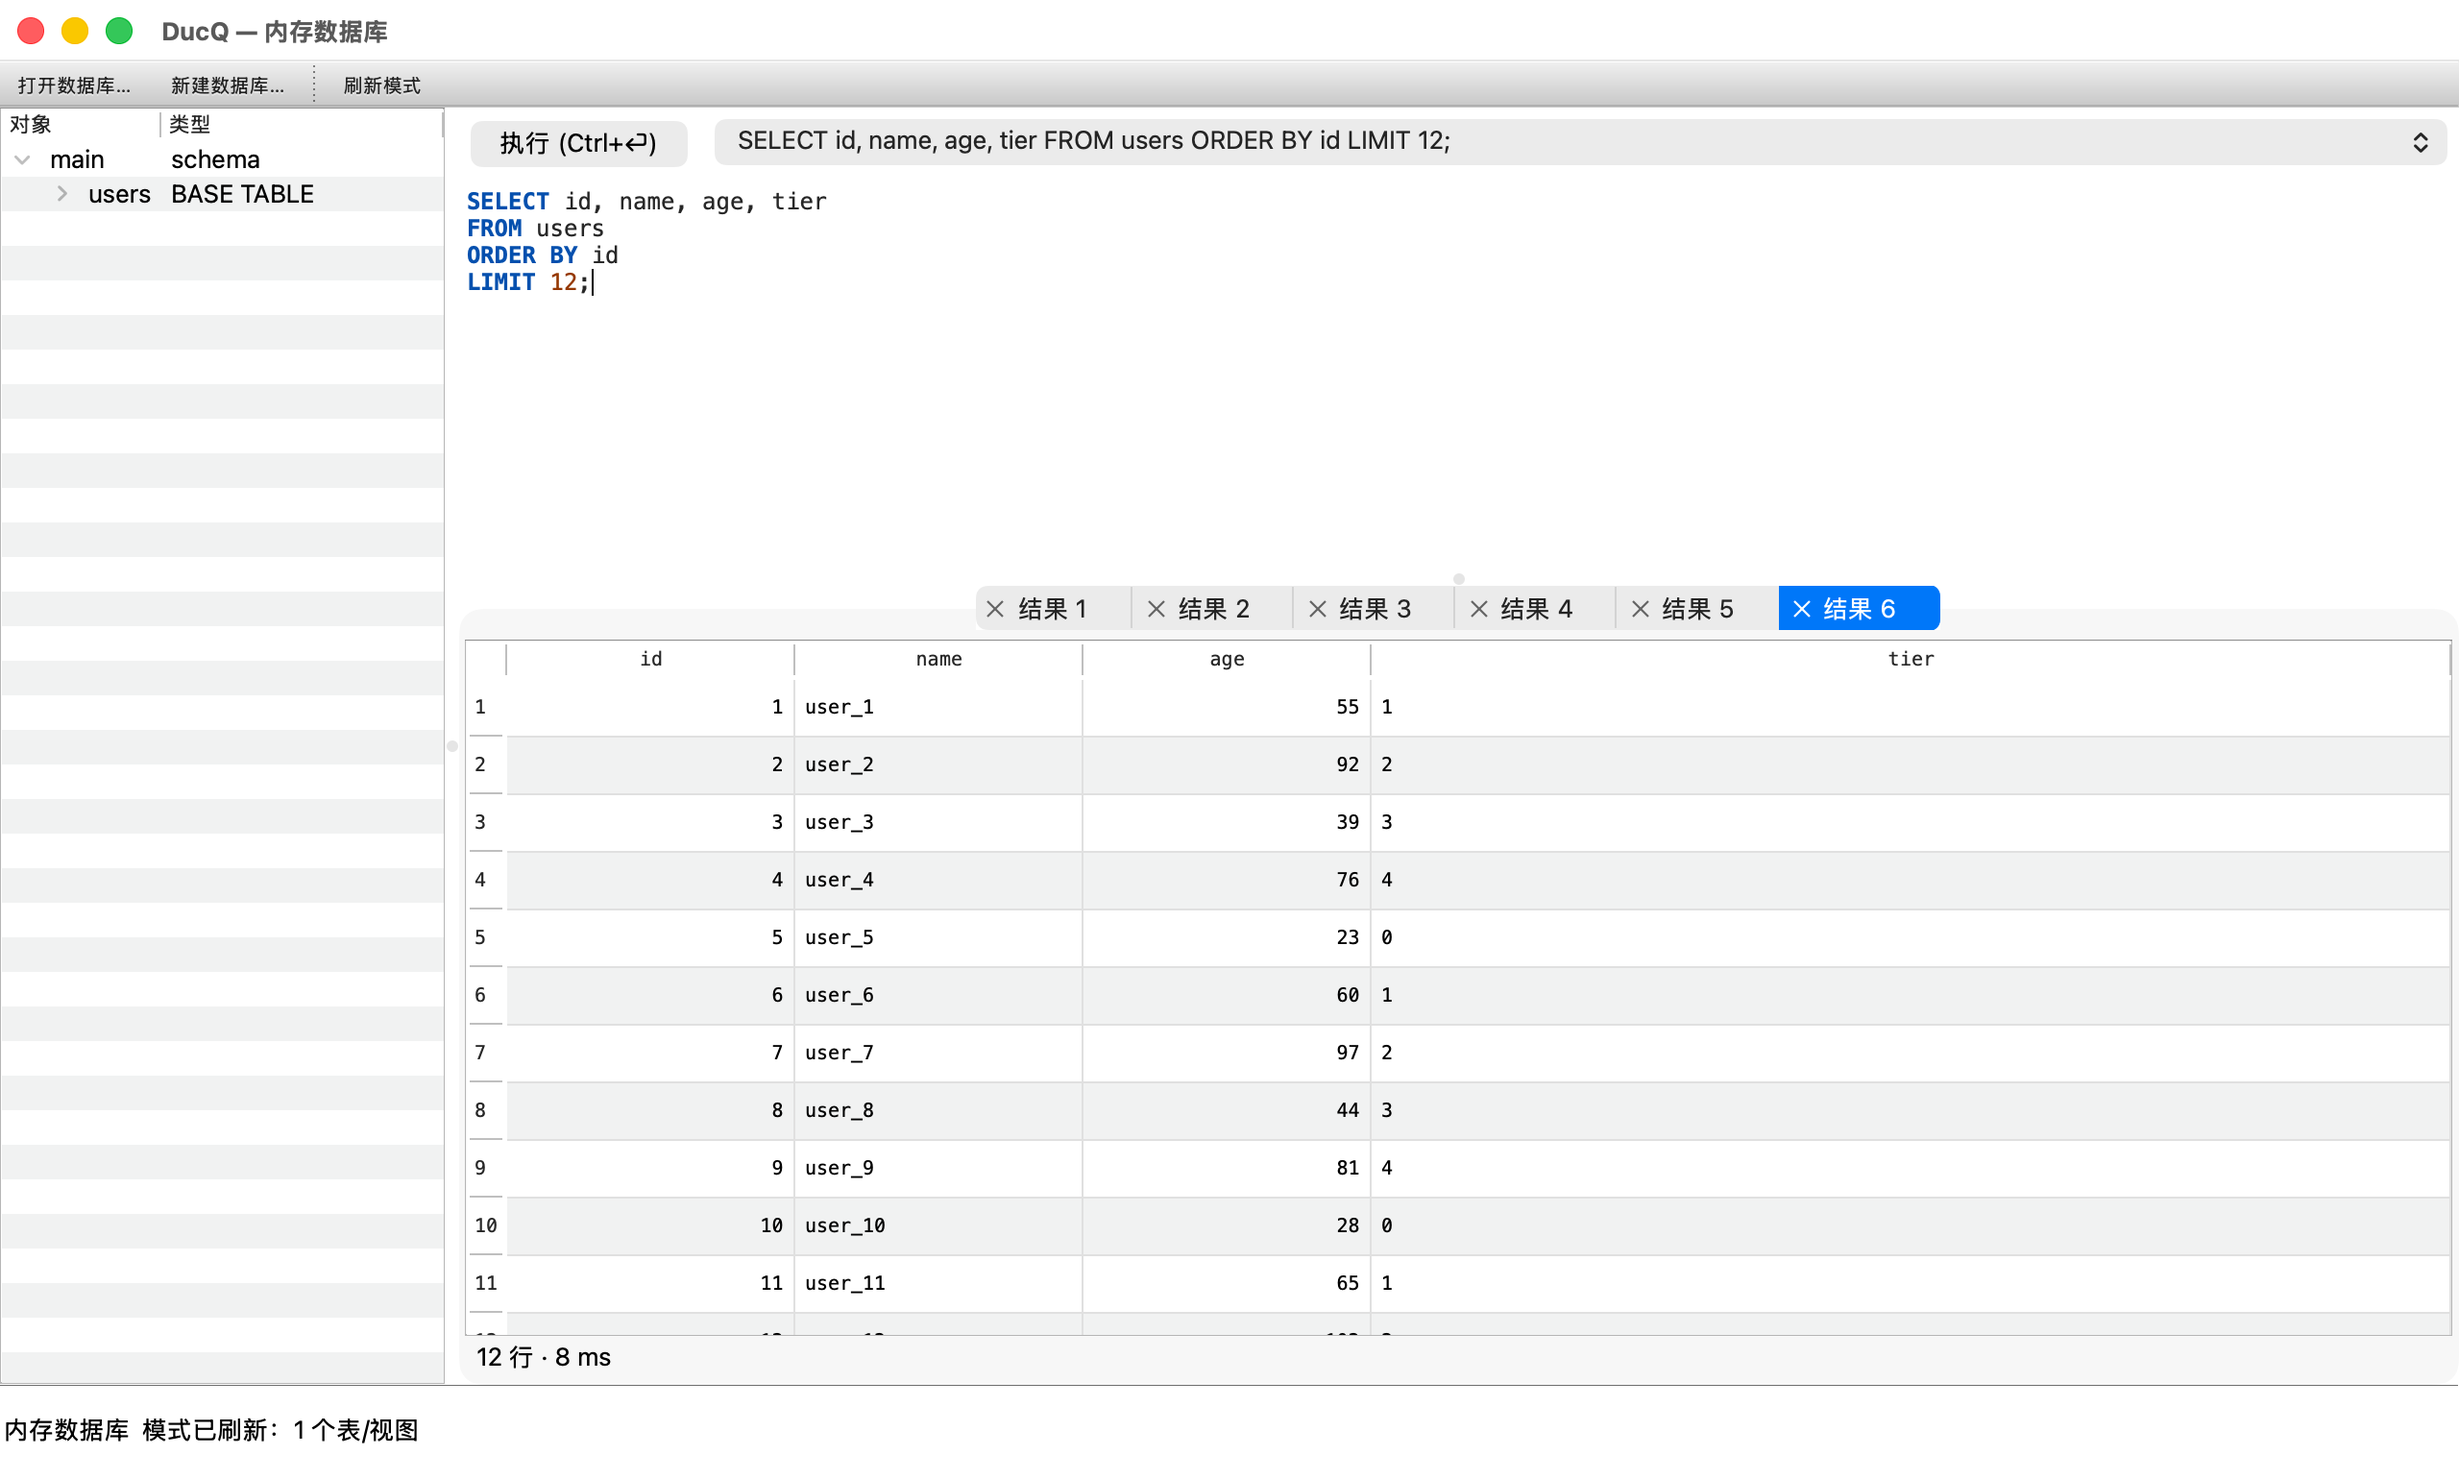
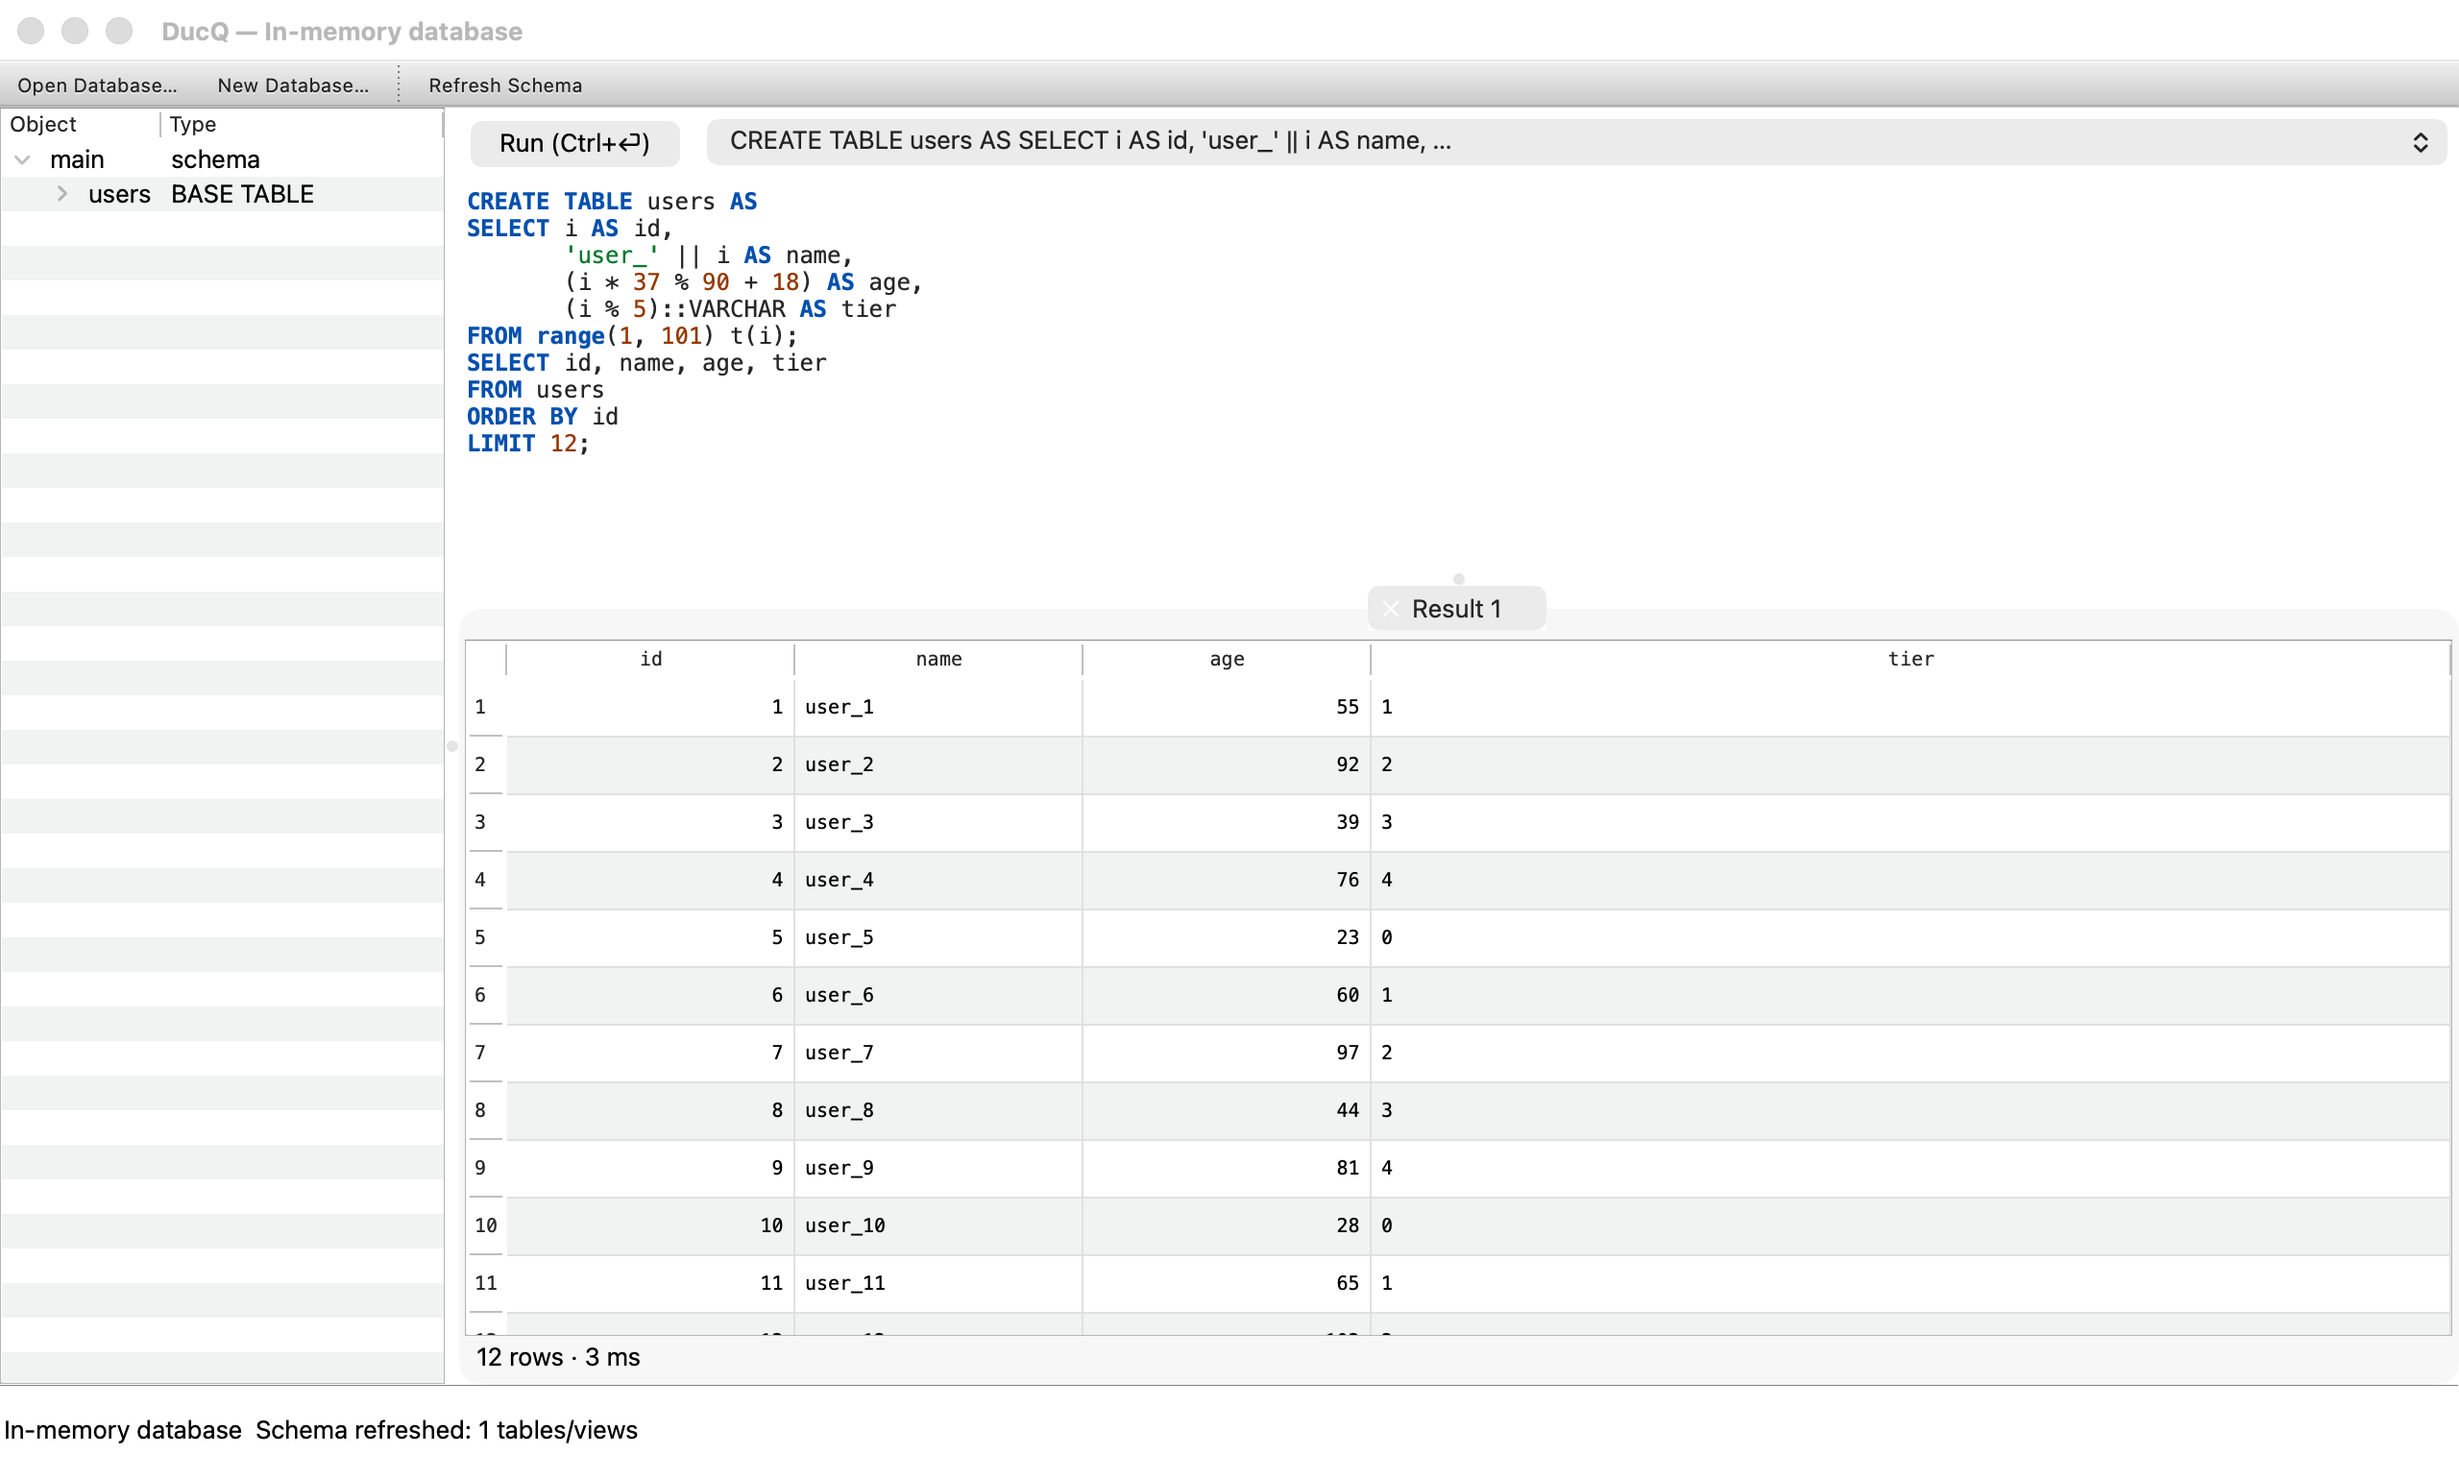
docs: retake screenshots with English UI; add CLI database/script args
- DucQ [database] opens a database file at startup
- --execute <script.sql> fills the editor and runs a script on launch
  (also used to reproduce the demo state for screenshots)

diff --git a/src/main.cpp b/src/main.cpp
@@ -1,6 +1,7 @@
 #include "ui/MainWindow.h"
 
 #include <QApplication>
+#include <QCommandLineParser>
 #include <QLocale>
 #include <QSettings>
 #include <QTranslator>
@@ -42,7 +43,27 @@ int main(int argc, char *argv[])
     if (language != QLatin1String("en") && translator->load(QStringLiteral(":/i18n/ducq_%1.qm").arg(language)))
         QApplication::installTranslator(translator);
 
+    QCommandLineParser parser;
+    parser.setApplicationDescription(QStringLiteral("DucQ — DuckDB GUI"));
+    parser.addHelpOption();
+    parser.addPositionalArgument(QStringLiteral("database"),
+                                 QStringLiteral("Database file to open at startup (omit for in-memory)."),
+                                 QStringLiteral("[database]"));
+    QCommandLineOption executeOption(QStringLiteral("execute"),
+                                     QStringLiteral("Run the SQL script after startup."));
+    executeOption.setValueName(QStringLiteral("file"));
+    parser.addOption(executeOption);
+    parser.process(app);
+
     ducq::MainWindow window;
     window.show();
+
+    const QStringList positional = parser.positionalArguments();
+    if (!positional.isEmpty())
+        window.openDatabaseFileAtStartup(positional.first());
+    const QString script = parser.value(executeOption);
+    if (!script.isEmpty())
+        window.executeScriptAtStartup(script);
+
     return QApplication::exec();
 }

diff --git a/src/ui/MainWindow.cpp b/src/ui/MainWindow.cpp
@@ -15,6 +15,7 @@
 #include <QDragEnterEvent>
 #include <QDropEvent>
 #include <QEvent>
+#include <QFile>
 #include <QFileDialog>
 #include <QFileInfo>
 #include <QLabel>
@@ -103,6 +104,32 @@ MainWindow::~MainWindow()
         m_workerThread->wait();
     }
     delete m_runner; // thread stopped, safe to delete from here
+}
+
+void MainWindow::openDatabaseFileAtStartup(const QString &path)
+{
+    QMetaObject::invokeMethod(m_runner, "shutdown", Qt::BlockingQueuedConnection);
+    QString error;
+    if (!m_database.open(path, false, &error)) {
+        QMessageBox::critical(this, tr("Open Failed"), error);
+        m_database.open(QString(), false, nullptr);
+    }
+    QMetaObject::invokeMethod(m_runner, "initialize", Qt::BlockingQueuedConnection);
+    updateConnectionLabel();
+    refreshCatalog();
+}
+
+void MainWindow::executeScriptAtStartup(const QString &scriptPath)
+{
+    QFile scriptFile(scriptPath);
+    if (!scriptFile.open(QIODevice::ReadOnly | QIODevice::Text)) {
+        setStatusMessage(tr("Cannot read script: %1").arg(scriptPath));
+        return;
+    }
+    const QString sql = QString::fromUtf8(scriptFile.readAll());
+    m_editor->setPlainText(sql);
+    runSql(sql);
+    pushHistory(sql);
 }
 
 void MainWindow::buildUi()

diff --git a/src/ui/MainWindow.h b/src/ui/MainWindow.h
@@ -33,6 +33,10 @@ public:
     MainWindow();
     ~MainWindow() override;
 
+    // Startup hooks for the command line (see main.cpp).
+    void openDatabaseFileAtStartup(const QString &path);
+    void executeScriptAtStartup(const QString &scriptPath);
+
 protected:
     void changeEvent(QEvent *event) override;
     void dragEnterEvent(QDragEnterEvent *event) override;
